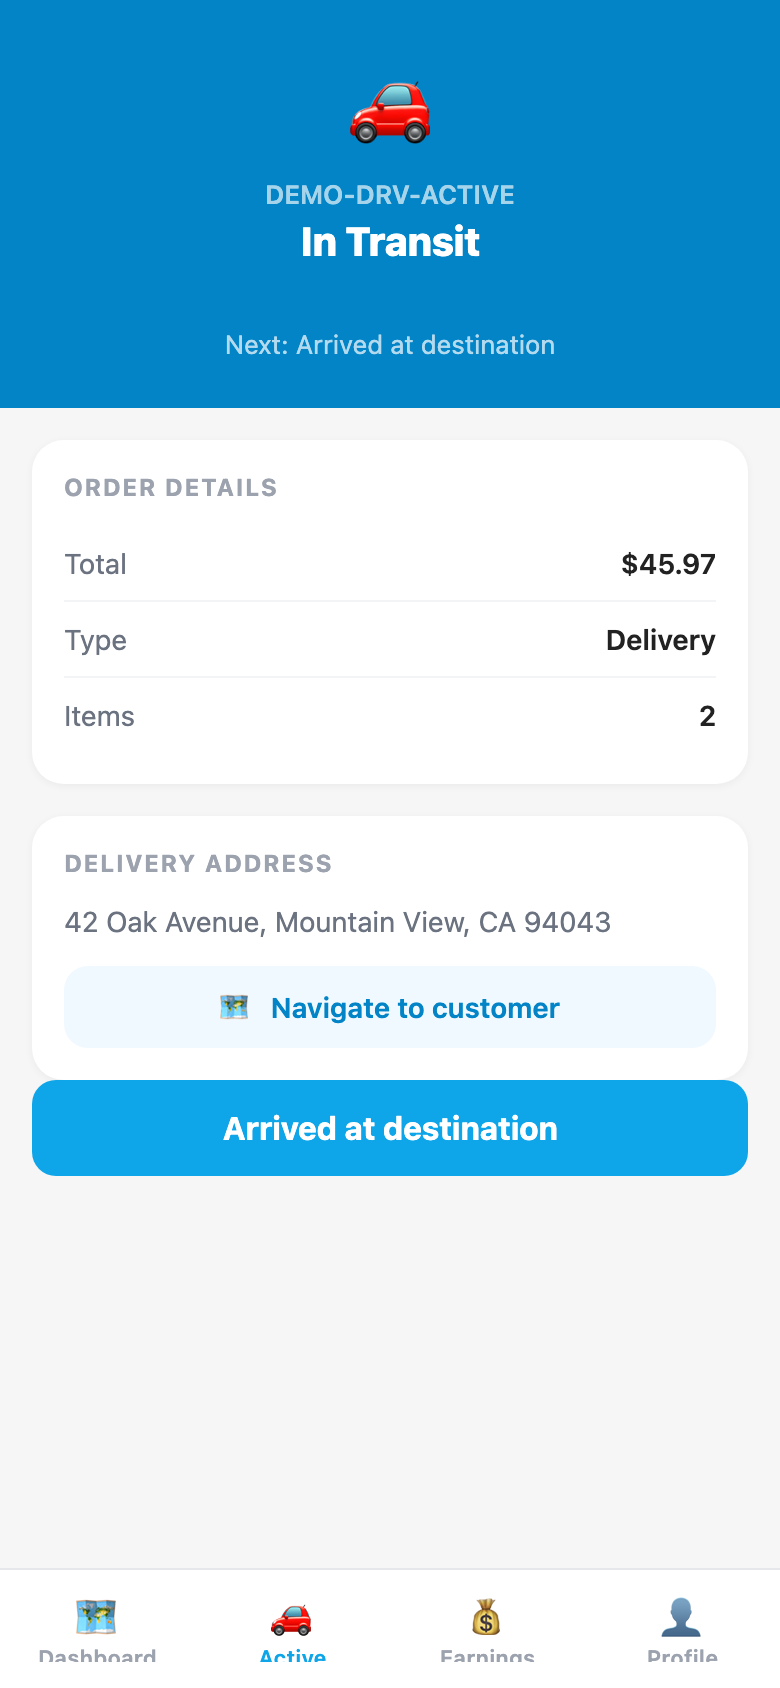
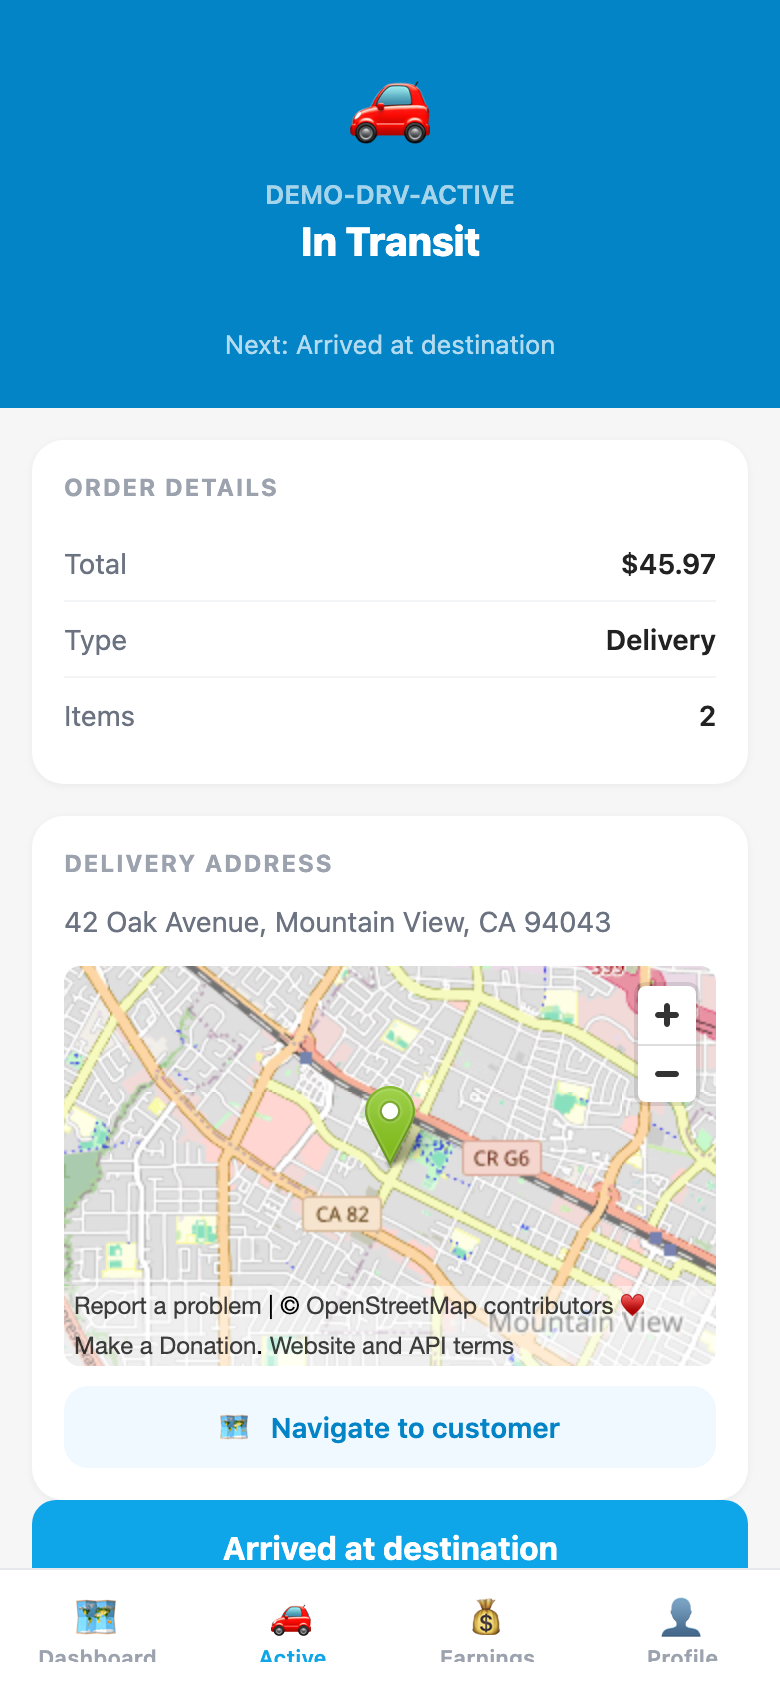
feat(portfolio): add live maps to driver, customer, and merchant screenshots
- wf-driver-02-enroute: embedded OSM map showing restaurant location
- wf-driver-04-intransit: embedded OSM map showing delivery address
- flow-07-tracking: customer order tracking now shows driver location map
- wf-merchant-driver-map: new — merchant sees driver approaching on live map
- restaurant-flow.html: insert driver map step (step 4) in order workflow

Changed region(s): [[0.0308, 0.5545, 0.9846, 0.955]]

diff --git a/restaurant-flow.html b/restaurant-flow.html
@@ -573,6 +573,17 @@
           <div class="num-sc">
             <div class="num-sc-header">
               <div class="num-circle">4</div>
+              <div class="num-title">Driver En Route — Live Map</div>
+            </div>
+            <div>
+              <img class="phone-img" src="demo/screenshots/wf-merchant-driver-map.png" alt="Driver heading to restaurant live map" />
+              <div class="sc-caption">Once a driver is assigned, the restaurant sees a live map showing the driver&#8217;s GPS position approaching. Updates every 30 seconds &#8212; no refresh needed.</div>
+            </div>
+          </div>
+
+          <div class="num-sc">
+            <div class="num-sc-header">
+              <div class="num-circle">5</div>
               <div class="num-title">Driver at Door</div>
             </div>
             <div>
@@ -583,7 +594,7 @@
 
           <div class="num-sc">
             <div class="num-sc-header">
-              <div class="num-circle">5</div>
+              <div class="num-circle">6</div>
               <div class="num-title">Handover Code Entry</div>
             </div>
             <div>
@@ -594,7 +605,7 @@
 
           <div class="num-sc">
             <div class="num-sc-header">
-              <div class="num-circle">6</div>
+              <div class="num-circle">7</div>
               <div class="num-title">Completed Orders</div>
             </div>
             <div>